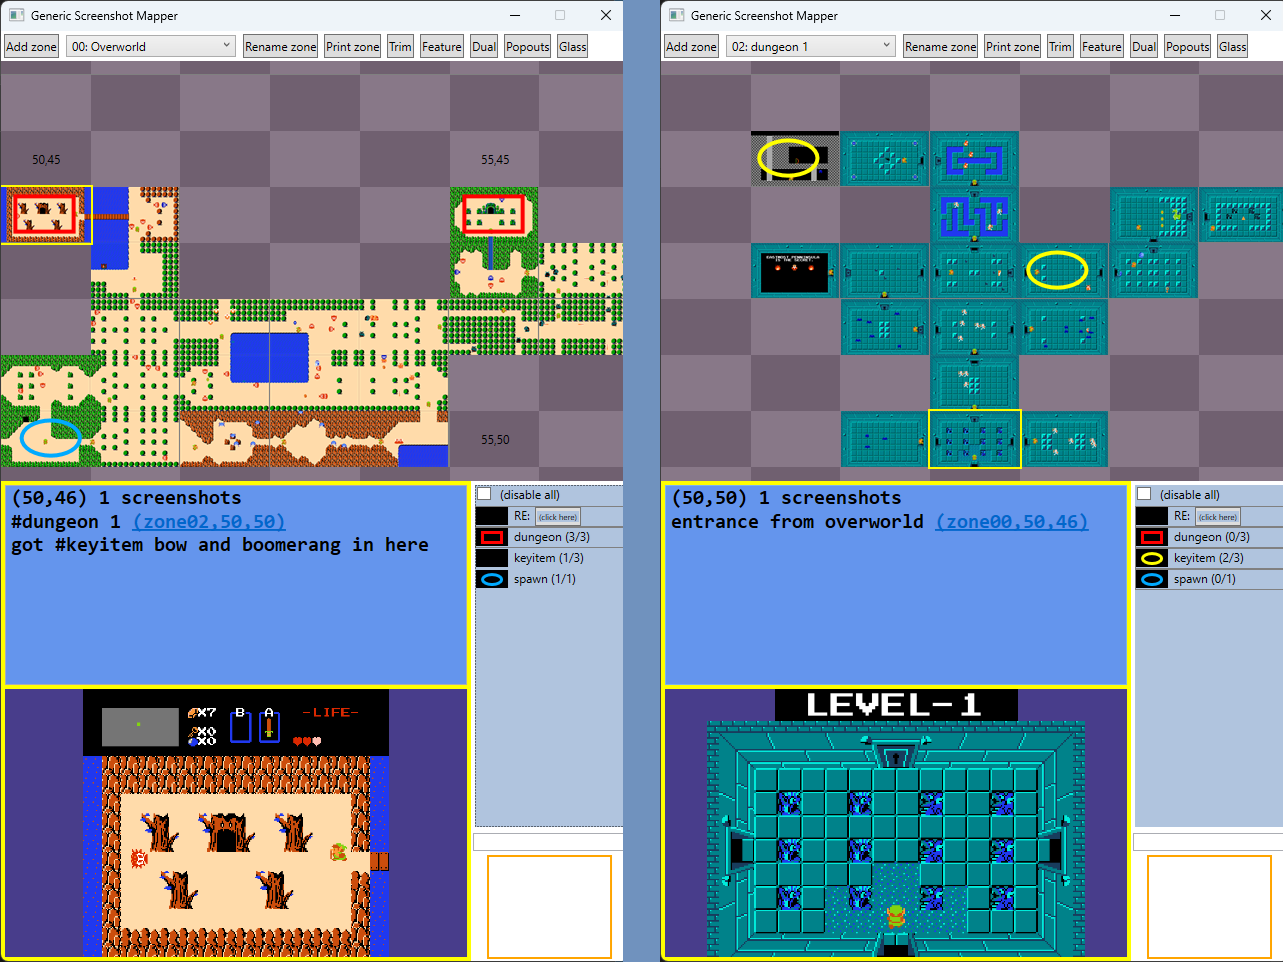
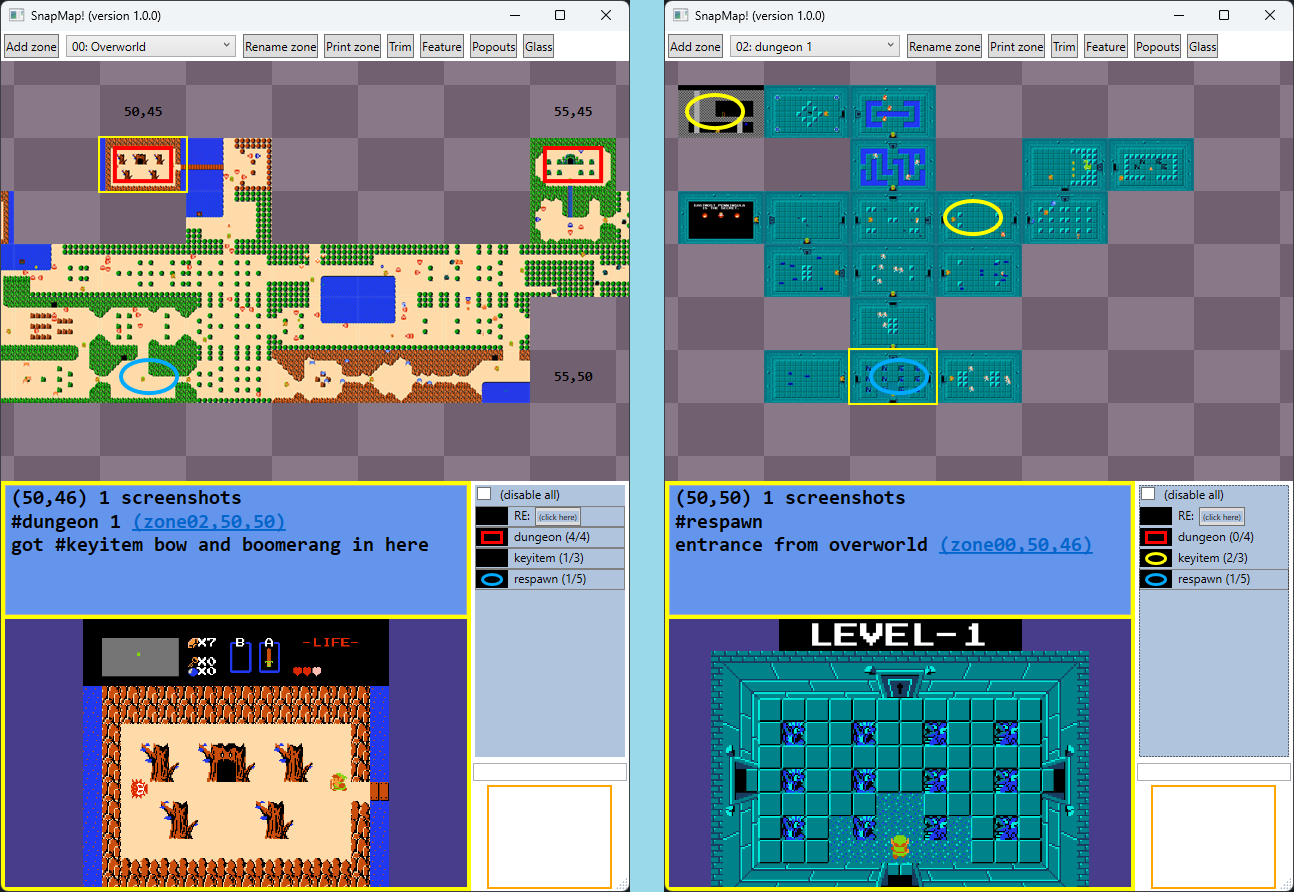
name it: SnapMap update docs and tool with some branding

diff --git a/doc/main.md b/doc/main.md
@@ -1,10 +1,10 @@
-# ScreenshotMapTools full documentation
+# SnapMap full documentation
 
 ## On this page
 
 SETUP
-* [Pre-requisites; Downloading and running the tool](#downloading)
-* [QuickStart - Setting up a new game for the tool](#newgamesetup)
+* [Pre-requisites; Downloading and running SnapMap](#downloading)
+* [QuickStart - Setting up a new game with SnapMap](#newgamesetup)
 
 TAKING SCREENSHOTS AND NOTES
 * [Basic Controls - Screenshots on a grid](#basiccontrols)
@@ -24,22 +24,23 @@ FEATURES FOR USER-PRODUCTIVITY AND OBS-BROADCASTING
 OTHER INFO
 * [Directory Structure and File Format](#files)
 * [Statement about code generated by AI tools](#ai)
+* [History](#history)
 
 Jump to any of the linked topics above, or scroll down to read them one-by-one.
 
 ![horizontal rule](img/HR2.png)
 
-## <a id="downloading"></a>Pre-requisites; Downloading and running the tool
+## <a id="downloading"></a>Pre-requisites; Downloading and running SnapMap
 
 See the [download page](download.md) for information.
 
-## <a id="newgamesetup"></a>QuickStart - Setting up a new game for the tool
+## <a id="newgamesetup"></a>QuickStart - Setting up a new game with SnapMap
 
 See the [setup page](setup.md) for instructions setting up a new game.
 
 ## <a id="basiccontrols"></a>Basic Controls - Screenshots on a grid
 
-The tool is designed to be visible to the player (off to the side, or on a separate monitor)
+SnapMap is designed to be visible to the player (off to the side, or on a separate monitor)
 while they are playing the game (via keyboard or controller).  The basic controls of
 the tool run via num-pad hotkeys that allow you to move the cursor around the map grid 
 and take screenshots without ever needing to alt-tab or have the game lose focus.
@@ -53,7 +54,7 @@ one cell of the grid is the current location cursor.  The most essential control
 
 * `(NumPad) 7` and `9`: zoom In/Out on the map grid, to get a more focused/wider view
 
-The tool supports a grid of 100x100 cells, and starts you by default at coordinate (50,50).
+SnapMap supports a grid of 100x100 cells, and starts you by default at coordinate (50,50).
 So when you start the game, you can put the first screenshot at (50,50) and then just start 
 building your map from there and have plenty of room to build in all 4 directions.  
 
@@ -62,11 +63,11 @@ When you spawn into the world, press `NumPad 0` to take a screenshot of the firs
 The only exit is to the left, so after the screen transition in game, press `NumPad 4` to
 move the tool's cursor to the left, and then press `NumPad 0` again to take a screenshot
 of the second screen and place it left of the first one on the grid.  Repeat the same 
-process for the third screen.  Then the only exit from the room is to fall down, so after
+process for the third screen.  Then the only exit from the third room is to fall down, so after
 that screen transition, press `NumPad 2` to move the cursor down before `NumPad 0` to 
 screenshot the 4th room.  The map would now look like this:
 
-![map tool after first 4 screens of EMUUROM](img/DemoScreenshots.png)
+![SnapMap after first 4 screens of EMUUROM](img/DemoScreenshots.png)
 
 Each 100x100 grid is called a 'zone', and you can make multiple zones for games with 
 multiple maps.  For example, in The Legend of Zelda, there is an overworld map and 9
@@ -102,8 +103,8 @@ illuminates the whole room:
 
 ## <a id="cutandpaste"></a>Cut and paste
 
-You will inevitably make a mistake and put a screenshot in the wrong grid cell.  The tool
-has basic cut-and-paste functionality to patch up mistaken screenshots.
+You will sometimes make a mistake and put a screenshot in the wrong grid cell.  The tool
+has basic cut-and-paste functionality to patch up accidental screenshots.
 
 Controls:
 
@@ -146,7 +147,7 @@ locations on the map, and right-clicking lets you change the color and shape of 
 
 (In addition to marking up cells containing #hashtags, you can also mark up cells containing any text
 that matches a regular expression, by clicking the little button next to "RE:" at the top of the tag
-list in the lower-right panes of the app.)
+list in the lower-right pane of the app.)
 
 (You can click the '(disable all)' to temporarily disable all the hashtag markup, if you just want to
 look at the unobscured map.)
@@ -273,4 +274,7 @@ modules all involve interfacing with Windows native code APIs for window managem
 languages like F#.  I asked Google for help with how to do these bits, and it spat out some useful code, which I cleaned 
 up and debugged and put into the project.)
 
+## <a id="history"></a>History
+
+See the [history page](history.md) for information about how this tool came to be.
 

diff --git a/README.md b/README.md
@@ -1,11 +1,15 @@
-# Screenshot Map Tool
+# SnapMap!
 
-A tool for making screenshot maps of 2-D screen-at-a-time games, and for taking notes
+### Map worlds and log notes as you play: SnapMap is the desktop companion app for 2D gamers.
+
+The tool is a work in progress, but nearing initial release.  [Read documentation here.](doc/main.md)
+
+-----
+
+SnapMap is a tool for making screenshot maps of 2-D screen-at-a-time games, and for taking notes
 associated with locations of the map.
 
 ![the tool](doc/img/ToolZBothSmall.png)
-
-The tool is a work in progress, but nearing initial release.  [Read documentation here.](doc/main.md)
 
 # Motivation
 
@@ -16,50 +20,9 @@ saving those screenshots (possibly after spending time trimming or resizing them
 a grid (like Obsidian or GIMP).  Even the more efficient workflows I've witnessed still involve a lot of fiddling about and alt-tabbing between
 multiple applications and the game itself.
 
-So I made a tool that makes it simple.  The tool just runs in the background, and at any time you can press `NumPad0` to take a new screenshot
+So I made a tool that makes it simple.  SnapMap just runs in the background, and at any time you can press `NumPad0` to take a new screenshot
 of the game and drop it into the grid, or use `NumPad2468` to move the cursor around the grid, all while the game stays running with focus.
 
 There's lots more features, for notetaking, custom visualizations, and OBS capture.
-
-Check out the [full documentation here](doc/main.md).
-
-# History
-
-At the time I wrote this text section (Oct 2026), I've been working on this app on and off for about five years now.  I'd used some variation of the tool 
-for myself on about a dozen games I played on [YouTube](https://www.youtube.com/@lorgon111/playlists) over that time; here's a smattering of suggestive screenshots:
-
-![the tool](doc/img/History.png)
-
-I went back through the repository changelog to get a sense of the major feature work timeline:
-
-```
-basic screenshots post-hoc (from videos)
- - Deep Rune                        Nov 2021
- - Knytt Underground                Aug 2022
-multiple screenshots and fixed markup
- - Elephantasy                      Feb 2023
-cut and paste; notes and hashtags
- - Leaf's Odyssey                   Jun 2024
-performance work 
- - ANIMAL WELL                      Jun 2024
-clickable hyperlinks 
- - Master Key                       Aug 2024
-minimap
- - Side Scape                       Sep 2024
- - Isles of Sea and Sky             Oct 2024
-first 'glass' prototype
-finally started factoring out a zillion per-game hardcoded 
-        constants into json data, made a new-game workflow 
- - Raider Kid and the Ruby Chest    Apr 2026
-experiment with auto-tracking 
- - Minit                            May 2026
-improved map marker colors and shapes
- - EMUUROM                          Jun 2026
-starting Jul 2026, serious work: 
-    performance, usability, features, testers, documentation
-```
-
-It's been a ton of effort, but a very fun hobby project for me, as I love making maps and organizing notes
-(which is probably why my favorite game genres feature exploration and puzzles-requiring-notetaking).
 
 Check out the [full documentation here](doc/main.md).

diff --git a/doc/setup.md b/doc/setup.md
@@ -1,11 +1,11 @@
 ## Quickstart - Setting up a new game
 
-The tool requires that all screenshots of the game window be the same size.  So **before using the tool, be sure to configure the
-game itself to be in your preferred window size**, and that when you start up the game again another day it will still be the same size.
+SnapMap requires that all screenshots of the game window be the same size.  So **before using SnapMap, be sure to configure the
+game itself to be in your preferred window size**, and ensure that when you start up the game again another day it will still be the same size.
 
-Then **start up the game first**, before starting up the screenshot tool.
+Then **start up the game first**, before starting SnapMap.
 
-When you first start the screenshot tool (by running `ScreenshotMapTools.exe`), the console window lists all the previous games you have 
+When you first start SnapMap (by running `SnapMap.exe`), the console window lists all the previous games you have 
 used in the tool (if any), but the first option in the list is always "**0: New Game**".  So to set up a new game, type `0 Enter`.
 
 Then you'll be asked which window process has the game you want to set up, and shown a numbered list of all the windows open on your computer.
@@ -13,7 +13,7 @@ Type in the number that corresponds to the game you want to screenshot.
 
 Then it will ask you for a directory name (folder name) to save the screenshots; type a valid name (such as the name of the game, e.g. 'Zelda';
 alphanumeric characters only) and press `Enter`.  Screenshots and other game info will be saved to that sub-folder, under the folder 
-containing `ScreenshotMapTools.exe`.
+containing `SnapMap.exe`.
 
 The app then starts up, and you're ready to take your first screenshot!
 
@@ -22,7 +22,7 @@ Press `NumPad 0` to take a test screenshot.  You can then press `NumPad -` to 'c
 Press `NumPad 2 4 6 8` to see that these 4 keys serve as the 'arrow' keys to move the cursor around the grid.  When you move from screen to screen in 
 your game, move the cursor in the corresponding direction of the grid and press `NumPad 0` to take a screenshot of each new screen to build your map.
 
-Note that the game constantly saves all your updates to screenshots and Notes, so you can safely exit the app at any time.	The next time you run the 
+Note that SnapMap constantly saves all your updates to screenshots and Notes, so you can safely exit the app at any time.	The next time you run the 
 app, your game will be listed in the console window (e.g. "1: Zelda") at startup, and you can select it to continue where you left off.	
 
 This is enough bare essential information to start using the tool, but keep reading (below, and back on the [main page](main.md)) for a lot more details

diff --git a/doc/history.md b/doc/history.md
@@ -1,0 +1,38 @@
+## History
+
+At the time I wrote this text section (Oct 2026), I've been working on this app on and off for about five years now.  I'd used some variation of the tool 
+for myself on about a dozen games I played on [YouTube](https://www.youtube.com/@lorgon111/playlists) over that time; here's a smattering of suggestive screenshots:
+
+![the tool](img/History.png)
+
+I went back through the repository changelog to get a sense of the major feature work timeline:
+
+```
+basic screenshots post-hoc (from videos)
+ - Deep Rune                        Nov 2021
+ - Knytt Underground                Aug 2022
+multiple screenshots and fixed markup
+ - Elephantasy                      Feb 2023
+cut and paste; notes and hashtags
+ - Leaf's Odyssey                   Jun 2024
+performance work 
+ - ANIMAL WELL                      Jun 2024
+clickable hyperlinks 
+ - Master Key                       Aug 2024
+minimap
+ - Side Scape                       Sep 2024
+ - Isles of Sea and Sky             Oct 2024
+first 'glass' prototype
+finally started factoring out a zillion per-game hardcoded 
+        constants into json data, made a new-game workflow 
+ - Raider Kid and the Ruby Chest    Apr 2026
+experiment with auto-tracking 
+ - Minit                            May 2026
+improved map marker colors and shapes
+ - EMUUROM                          Jun 2026
+starting Jul 2026, serious work: 
+    performance, usability, features, testers, documentation
+```
+
+It's been a ton of effort, but a very fun hobby project for me, as I love making maps and organizing notes
+(which is probably why my favorite game genres feature exploration and puzzles-requiring-notetaking).

diff --git a/doc/download.md b/doc/download.md
@@ -1,6 +1,6 @@
 ## Pre-requisites
 
-To use the tool, you currently will need
+To use SnapMap, you currently will need
 
 * To be running Win10 or Win11
 
@@ -8,14 +8,14 @@ To use the tool, you currently will need
 
 * (strongly suggested) A keyboard with a NumPad (none of the keyboard controls are currently rebindable, and the app is mostly driven via NumPad hotkeys; there are alternative mouse controls, but they are a little clunky)
 
-## Downloading the tool
+## Downloading
 
 TODO actual release files
 
-The app is released as a .zip file folder of the executable and all its helper files. Download the .zip file, and then
+SnapMap is released as a .zip file folder of the executable and all its helper files. Download the .zip file, and then
 
 * unzip the folder somewhere (wherever you want to store this installation of the tool)
-* run ScreenshotMapTools.exe to start the program (you probably need to click 'More Info' and 'Run Anyway'; see [Windows Defender](#defender) section below)
+* run SnapMap.exe to start the program (you probably need to click 'More Info' and 'Run Anyway'; see [Windows Defender](#defender) section below)
 
 ## <a id="defender"></a>Windows Defender
 

diff --git a/doc/fileformat.md b/doc/fileformat.md
@@ -4,7 +4,7 @@ This is how the directory structure of the app looks:
 
 ```
 InstallFolder\
-├── ScreenshotMapTools.exe
+├── SnapMap.exe
 ├── <a bunch of DLLs>
 ├── app.json
 ├── Game1Folder\
